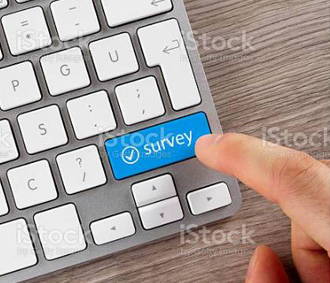
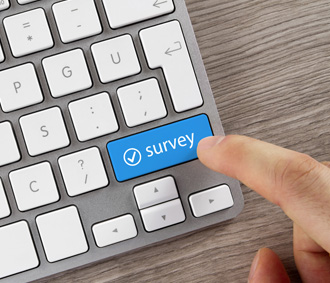
New fruitveg2021 variable Changed 3TS asset wording for "Could talk to adults" Changed cyberbulled at school to "a schoolmate" Bought stock photo Overall vaping question added to Explore Added assets box below graph on 3TS page Added trendNotes to show note below trend group graph Nutrition highligh

diff --git a/trends.php b/trends.php
@@ -67,6 +67,7 @@ if(!$showIntro)
     foreach ($variablesInGraph as $variable) {
         $labels[] = $variable->summary;
     }
+    $trendNotes = getGroupNotes($trendGroup, $dataset);
 }
 ?>
 
@@ -97,7 +98,6 @@ if(!$showIntro)
             var sexOrientation = <?php echo json_encode($sexual_orientation); ?>;
             dataset = <?php echo json_encode($dataset); ?>;
             if(dataset === '6th') {
-                $("#filtergrade").hide();
                 $(".hide6").hide();
             }
 
@@ -218,7 +218,7 @@ if(!$showIntro)
                 <option value="1">Alcohol</option>
                 <option value="2">Tobacco</option>
                 <option value="3">Drugs</option>
-                <option value="20" class="hide6">Vaping</option>
+                <option value="20">Vaping</option>
                 <option value="4" class="hide6">Sexual Health</option>
                 <option value="5" class="hide6">Vehicle Safety</option>
                 <option value="6">Bullying & Cyberbullying</option>
@@ -235,7 +235,7 @@ if(!$showIntro)
                 <option value="1">Alcohol</option>
                 <option value="12">Tobacco</option>
                 <option value="5">Drugs</option>
-                <option value="20" class="hide6">Vaping</option>
+                <option value="20">Vaping</option>
                 <option value="2">Bullying & Cyberbullying</option>
                 <option value="14">Harassment</option>
                 <option value="3" class="hide6">Dating Aggression</option>
@@ -257,7 +257,7 @@ if(!$showIntro)
                 <option value="" selected="selected">Select a question</option>
             </select><br>
             <label class="shadow" style="margin: 10px 0 20px; width: 250px">2. (Optional) Filter data by:</label>
-            <select id="filtergrade" class="filter selector" title="Grade">
+            <select id="filtergrade" class="filter selector hide6" title="Grade">
                 <option value="">Grade</option>
                 <option value="1">8th</option>
                 <option value="2">10th</option>
@@ -276,7 +276,7 @@ if(!$showIntro)
                 <option value="4">Asian/Pacific Islander</option>
                 <option value="5">Other/Multiple</option>
             </select>
-            <select id="filtersex" class="filter selector" title="Sexual Orientation">
+            <select id="filtersex" class="filter selector hide6" title="Sexual Orientation">
                 <option value="">Sexual Orientation</option>
                 <option value="1">Heterosexual</option>
                 <option value="2">Gay or lesbian</option>
@@ -307,6 +307,13 @@ if(!$showIntro)
             </div>
 
             <div id="chartdiv" style="width100%; height:700px;"></div>
+
+        <?php if($trendNotes != null) {
+            echo "<div style='text-align: center'>
+                    <p><b>Note:</b> $trendNotes</p>
+                  </div>";
+        }
+        ?>
 
             <div style="text-align: center; margin-bottom: 20px;" class="hideIfNoGraph">
                 <h3>Data Table<div class="tipbutton" style="margin-left:15px" data-toggle="tooltip" data-placement="top" title="This table shows the percentage of students in each category. To save this data, click Export to CSV."></div></h3>

diff --git a/hidden/CategoryData.php b/hidden/CategoryData.php
@@ -101,11 +101,11 @@ function getHighlightGroup($cat, $dataset, $year)
         $title = "Bullying and Cyberbullying";
         if($dataset == DataService::EIGHT_TO_TWELVE) {
             $qCodes = ['B20', 'B22', 'CB3', 'CB2'];
-            $labels = ['Past Year Bullied Someone at School', 'Past Year Had Been Bullied at School', 'Past Year Cyberbullied Someone at School', 'Past Year Had Been Cyberbullied at School'];
+            $labels = ['Past Year Bullied Someone at School', 'Past Year Had Been Bullied at School', 'Past Year Cyberbullied a Schoolmate', 'Past Year Had Been Cyberbullied by a Schoolmate'];
         }
         else {
             $qCodes = ['B20', 'B22', 'CB3', 'CB2'];
-            $labels = ['Past Year Bullied Someone at School', 'Past Year Had Been Bullied at School', 'Past Year Cyberbullied Someone at School', 'Past Year Had Been Cyberbullied at School'];
+            $labels = ['Past Year Bullied Someone at School', 'Past Year Had Been Bullied at School', 'Past Year Cyberbullied a Schoolmate', 'Past Year Had Been Cyberbullied by a Schoolmate'];
         }
         $explanation = "<p>The Youth Survey asks questions about both bullying in-person and bullying online (called cyberbullying).</p>
         <p>Information specifically about bullying at school is available on the highlights page, while a broader range of activities (out-of-school behavior) is also available: <a href='graphs.php'>Explore the Data</a>.</p>";
@@ -143,14 +143,19 @@ function getHighlightGroup($cat, $dataset, $year)
     } else if ($cat == 10) {
         $title = "Nutrition and Physical Activity";
         if($dataset == DataService::EIGHT_TO_TWELVE) {
-            $qCodes = ['fruitveg', 'H7', 'H3', 'H20', 'H2'];
+            if($year >= 2021) {
+                $qCodes = ['fruitveg2021', 'H7', 'H3', 'H20', 'H2'];
+            }
+            else {
+                $qCodes = ['fruitveg', 'H7', 'H3', 'H20', 'H2'];
+            }
             $labels = ['Ate Fruits and Vegetables at least 5 Times per Day', 'Drank No Soda during Past Week', 'Had One Hour of Physical Activity at least 5 Days per Week',
-                'Get Eight or More Hours of Sleep on a School Night','Use Computer or Play Video Games for 3+ Hours per Day'];
+                'Got Eight or More Hours of Sleep on a School Night','Used Computer or Played Video Games for 3+ Hours per Day'];
         }
         else {
             $qCodes = ['fruitveg', 'H7', 'H3', 'H2'];
             $labels = ['Ate Fruits and Vegetables at least 5 Times per Day', 'Drank No Soda during Past Week', 'Had One Hour of Physical Activity at least 5 Days per Week',
-                'Use Computer or Play Video Games for 3+ Hours per Day'];
+                'Used Computer or Played Video Games for 3+ Hours per Day'];
         }
         $explanation = "<p>The Youth Survey asks about eating fruits and vegetables, drinking sweetened beverages, level of physical activity, and other questions related to physical health.</p>
         <p>To learn more about behaviors related to nutrition and physical health, including unhealthy weight loss and food insecurity (hunger), <a href='graphs.php'>Explore the Data</a>.</p>";

diff --git a/graphs.php b/graphs.php
@@ -102,7 +102,6 @@ if(!$showIntro && $mainVariableAvailable && $groupVariableAvailable) {
             year = <?php echo json_encode($year); ?>;
             dataset = <?php echo json_encode($dataset); ?>;
             if(dataset === '6th') {
-                $("#filtergrade").hide();
                 $(".hide6").hide();
             }
 
@@ -291,7 +290,7 @@ if(!$showIntro && $mainVariableAvailable && $groupVariableAvailable) {
                 <option value="" selected="selected">Select a question</option>
             </select><br>
             <label class="shadow" style="margin: 10px 0 20px">3. (Optional) Filter data by:</label>
-            <select id="filtergrade" class="filter selector" title="Grade">
+            <select id="filtergrade" class="filter selector hide6" title="Grade">
                 <option value="">Grade</option>
                 <option value="1">8th</option>
                 <option value="2">10th</option>
@@ -310,7 +309,7 @@ if(!$showIntro && $mainVariableAvailable && $groupVariableAvailable) {
                 <option value="4">Asian/Pacific Islander</option>
                 <option value="5">Other/Multiple</option>
             </select>
-            <select id="filtersex" class="filter selector" title="Sexual Orientation">
+            <select id="filtersex" class="filter selector hide6" title="Sexual Orientation">
                 <option value="">Sexual Orientation</option>
                 <option value="1">Heterosexual</option>
                 <option value="2">Gay or lesbian</option>

diff --git a/three-to-succeed.php b/three-to-succeed.php
@@ -372,6 +372,20 @@ if(!$showIntro && $variableAvailable)
             </div>
 
             <div id="chartdiv" style="width100%; height:700px;"></div>
+            <div style="text-align: center">
+                <div class="grid" style="font-size: 14px; display: inline-block; max-width:850px; width:100%; padding: 10px 10px 0 10px; border-radius: 20px; border: 2px solid">
+                    <div class="grid-half">
+                        <p>Can Ask Parents for Help with Personal Problems</p>
+                        <p>Performs Community Service Once a Month or More</p>
+                        <p>Feels It Is Important to Accept Responsibility for Actions</p>
+                    </div>
+                    <div class="grid-half">
+                        <p>Does Extracurricular Activities Once a Month or More</p>
+                        <p>Teachers Recognize Good Work</p>
+                        <p>Could Talk to Adults in Community about Something Important</p>
+                    </div>
+                </div>
+            </div>
 
             <div style="text-align: center; margin-bottom: 20px;" class="hideIfNoGraph">
                 <h3>Data Table<div class="tipbutton" style="margin-left:15px" data-toggle="tooltip" data-placement="top" title="This table shows the percentage of students in each category. To save this data, click Export to CSV."></div></h3>

diff --git a/hidden/TrendGroups.php b/hidden/TrendGroups.php
@@ -54,7 +54,7 @@ function getGroupCodes($group, $dataset) {
     }
     if($group == 10) {
         if($dataset == DataService::EIGHT_TO_TWELVE)
-            return ['fruitveg', 'H7', 'H3', 'H20', 'H2'];
+            return ['fruitveg', 'fruitveg2021', 'H7', 'H3', 'H20', 'H2'];
         else
             return ['fruitveg', 'H7', 'H3', 'H2'];
     }
@@ -76,6 +76,7 @@ function getGroupCodes($group, $dataset) {
         else
             return ['V1', 'V2', 'V3', 'V4','vaping'];
     }
+    return null;
 }
 function getGroupName($group) {
     if($group == 1)
@@ -104,5 +105,18 @@ function getGroupName($group) {
         return "Assets that Build Resiliency";
     if($group == 20)
         return "Vaping";
+    return null;
+}
+
+function getGroupNotes($group, $dataset) {
+    if($group == 10) {
+        if($dataset == DataService::EIGHT_TO_TWELVE)
+            return "The questions used to calculate \"Ate Fruits and Vegetables at least 5 Times per Day\" were changed in 2021.";
+        else
+            return null;
+    }
+    if($group == 11)
+        return "The question measuring stress level was changed in 2021.";
+    return null;
 }
 

diff --git a/three-to-succeed-instructions.php b/three-to-succeed-instructions.php
@@ -12,7 +12,7 @@
         For example, select the "Alcohol" category to see how the percentage of students that use alcohol changes based on their number of assets.</p>
     <div class="row">
         <h3 style="text-align: center">The Six Assets in this Graph Are...</h3>
-        <div class="grid">
+        <div class="grid" style="font-size: 16px; line-height: 32px">
             <div class="grid-half">
                 <ul>
                     <li>Can Ask Parents for Help with Personal Problems</li>
@@ -24,7 +24,7 @@
                 <ul>
                     <li>Does Extracurricular Activities Once a Month or More</li>
                     <li>Teachers Recognize Good Work</li>
-                    <li>Lots of Adults in Community are Available to Talk to</li>
+                    <li>Could Talk to Adults in Community about Something Important</li>
                 </ul>
             </div>
         </div>
